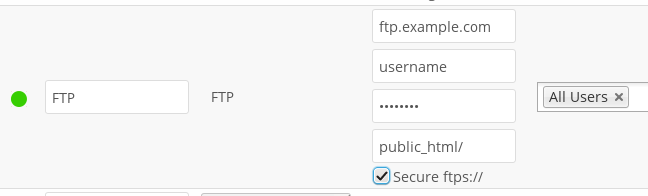
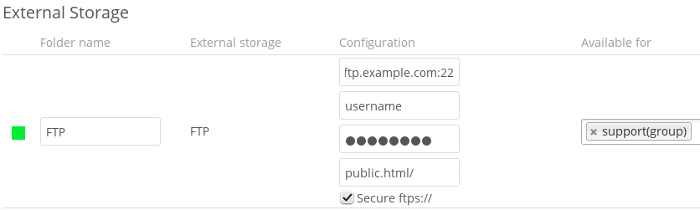
how to configure FTP port number on external storage

diff --git a/admin_manual/configuration_files/external_storage_configuration_gui.rst b/admin_manual/configuration_files/external_storage_configuration_gui.rst
@@ -166,7 +166,7 @@ FTP/FTPS/SFTP
 Connecting to an FTP server requires:
 
 * Whatever name you want for your local mountpoint.
-* The URL of your FTP server.
+* The URL of your FTP server, and optionally the port number.
 * FTP server username and password.
 * Remote Subfolder, the FTP directory to mount in ownCloud. ownCloud defaults to the root 
   directory. When you specify a different directory you must leave off the 
